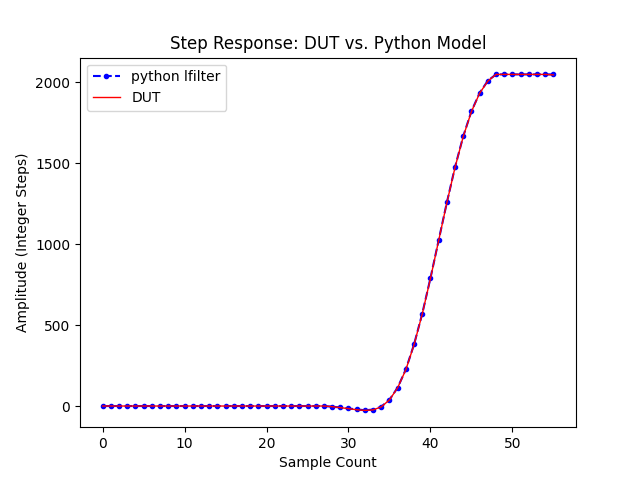
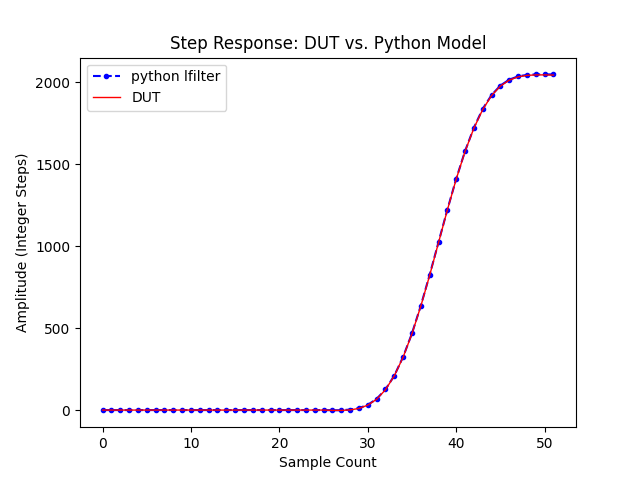
28 -> 26 taps

diff --git a/test/fir_tb.py b/test/fir_tb.py
@@ -11,12 +11,12 @@ import os
 clock_period = 40 # 25mhz
 # spi clock of 1-4mhz requires 2 NOP frames
 # spi clock 5mhz < (not sure bounds) requires 4+ nop frames
-spi_clock_period = 333 # ~3mhz
+spi_clock_period = 250 # ~3mhz
 spi_frame_len = 16
 nop_frames = 2
 
 # params
-taps = 28
+taps = 26
 data_width = 12
 
 # max/min values for bit widths
